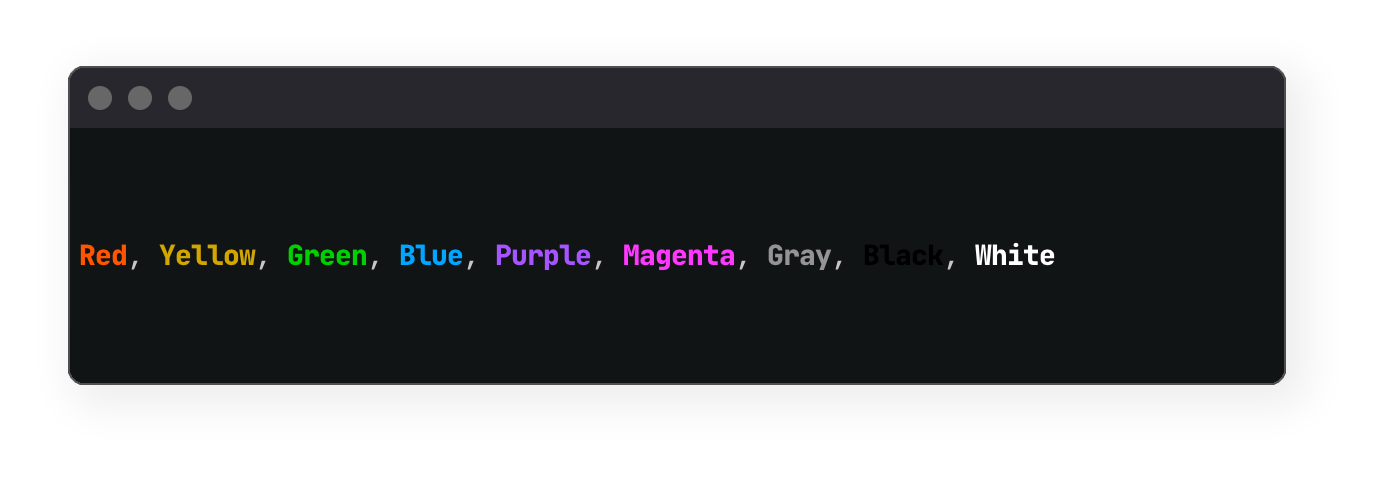
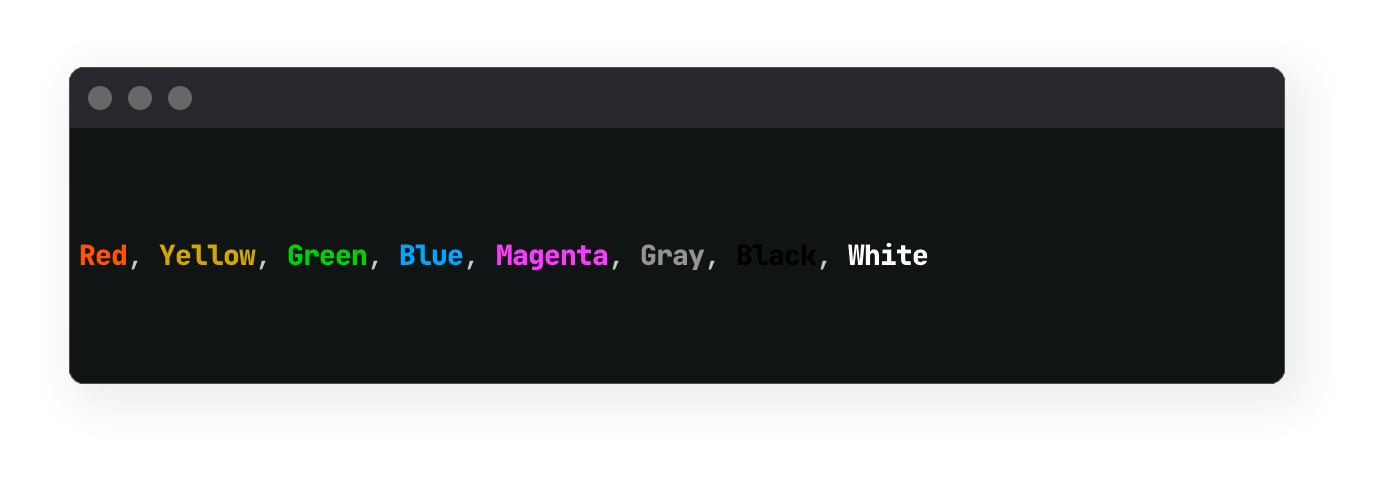
Update readme

Changed region(s): [[0.3381, 0.479, 0.7684, 0.5389]]

diff --git a/README.md b/README.md
@@ -23,7 +23,7 @@
 
 - Supports both terminal emulators and browser consoles.
 
-- Simple, accessibility-focused, 7-color pallette.
+- Simple, accessibility-focused, 8-color pallette.
 
 - All colors provide reasonable contrast on both light and dark backgrounds.
 
@@ -127,7 +127,7 @@ You can add multiple decorations with hiccup-style tags (a keyword with dot sepa
 
 ### The get-rich pallette 
 
-Seven carefully selected colors, from the [xterm range 16-255](https://en.m.wikipedia.org/wiki/Xterm#/media/File%3AXterm_256color_chart.svg), are available for use (shown in bold). All of these colors should display consistantly across most consoles on the end-user side. Don't expect all of the colors to pass the [strictest APCA contrast criterion](https://www.myndex.com/APCA/), but you can be sure that they will be reasonably visible on both light and dark backgrounds:
+Eight carefully selected colors, from the [xterm range 16-255](https://en.m.wikipedia.org/wiki/Xterm#/media/File%3AXterm_256color_chart.svg), are available for use (shown in bold). All of these colors should display consistantly across most consoles on the end-user side. Don't expect all of the colors to pass the [strictest APCA contrast criterion](https://www.myndex.com/APCA/), but you can be sure that they will be reasonably visible on both light and dark backgrounds:
 
 ```Clojure
 (println (enriched [:bold.red "Red"]
